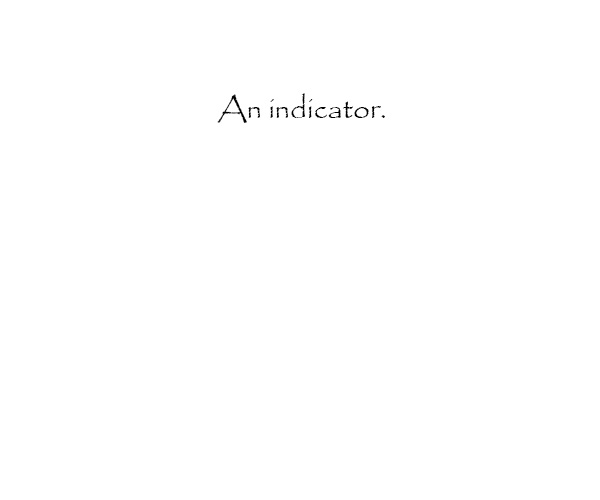
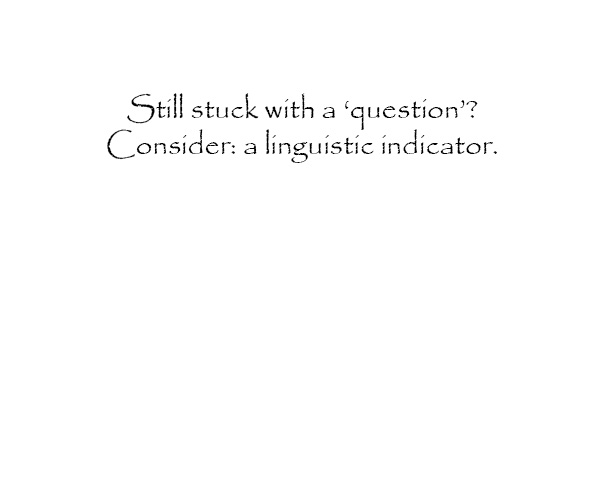
fix timeSince timestamps. update image

diff --git a/_config/filters.js b/_config/filters.js
@@ -20,7 +20,7 @@ export default function(eleventyConfig) {
 
 	eleventyConfig.addFilter("htmlDateTime", (dateObj, zone) => {
 		// dateObj input: https://html.spec.whatwg.org/multipage/common-microsyntaxes.html#valid-date-string
-		return DateTime.fromJSDate(dateObj, { zone: zone }).toLocaleString({ month: 'short', day: 'numeric', year: "numeric", hour: '2-digit', minute: '2-digit' });
+		return DateTime.fromJSDate(dateObj, { zone: zone || "local" }).toLocaleString({ month: 'short', day: 'numeric', year: "numeric", hour: '2-digit', minute: '2-digit' });
 	});
 
 	// Get the first `n` elements of a collection.
